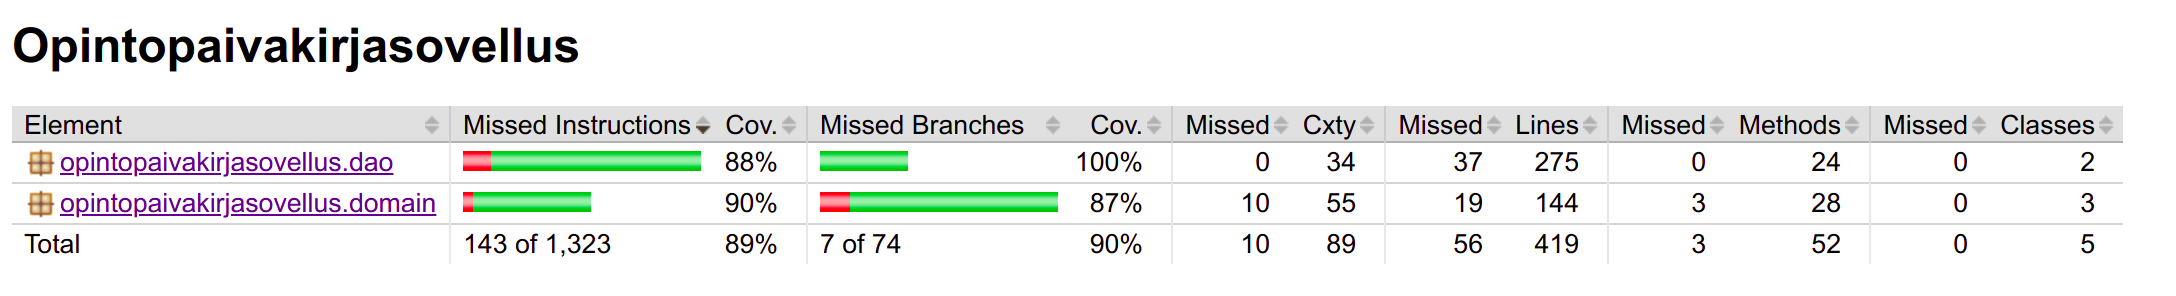
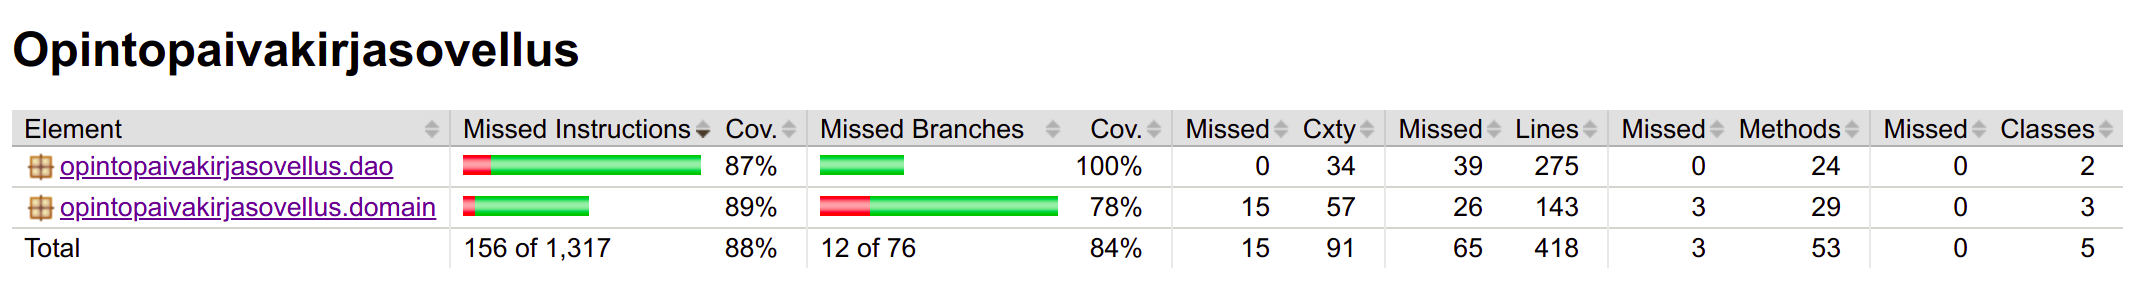
kuva

diff --git a/Opintopaivakirjasovellus/src/main/java/opintopaivakirjasovellus/domain/AppService.java b/Opintopaivakirjasovellus/src/main/java/opintopaivakirjasovellus/domain/AppService.java
@@ -31,11 +31,9 @@ public class AppService {
     public boolean createTask(String taskName) throws Exception {
         boolean created = false;
         if (loggedIn == null) {
-            System.out.println("Kirjaudu sisään");
             return false;
         }
         if (taskDao.getTask(taskName, loggedIn) != null) {
-            System.out.println("Tehtävä on jo olemassa");
             return false;
         }
         taskName = taskName.trim();
@@ -47,7 +45,6 @@ public class AppService {
             taskDao.create(task, loggedIn);
             created = true;
         } catch (SQLException e) {
-            System.out.println("Virhe AppService, metodi createCourse");
         }
         return created;
     }
@@ -85,19 +82,15 @@ public class AppService {
     */
     public boolean login(String username) throws Exception {
         if (loggedIn != null) {
-            System.out.println("You are already logged in");
             return false;
         }
         try {
             if (userDao.usernameExists(username)) {
                 loggedIn = userDao.findByUsername(username);
-                System.out.println("You are now logged in");
             } else {
-                System.out.println("No match for username: " + username);
                 return false;
             }
         } catch (Exception e) {
-            System.out.println("Virhe kirjautuessa sisään");
             return false;
         }
         return true;
@@ -110,7 +103,6 @@ public class AppService {
     */
     public void addTimeUsed(String taskName, int time) throws Exception {
         if (loggedIn == null) {
-            System.out.println("Log in first");
             return;
         } else if (taskDao.getTask(taskName, loggedIn) == null) {
             return;
@@ -186,10 +178,9 @@ public class AppService {
     public int getTimeUsedOneTask(String taskName) throws Exception {
         int timeUsed = 0;
         if (loggedIn == null) {
-            System.out.println("Log in first");
             return 0;
         } else if (taskDao.getTask(taskName, loggedIn) == null) {
-            System.out.println("Tehtävää ei löydy");
+            return 0;
         }
         try {
             timeUsed = taskDao.getTimeUsedOneTask(taskDao.getTask(taskName, loggedIn), loggedIn); 
